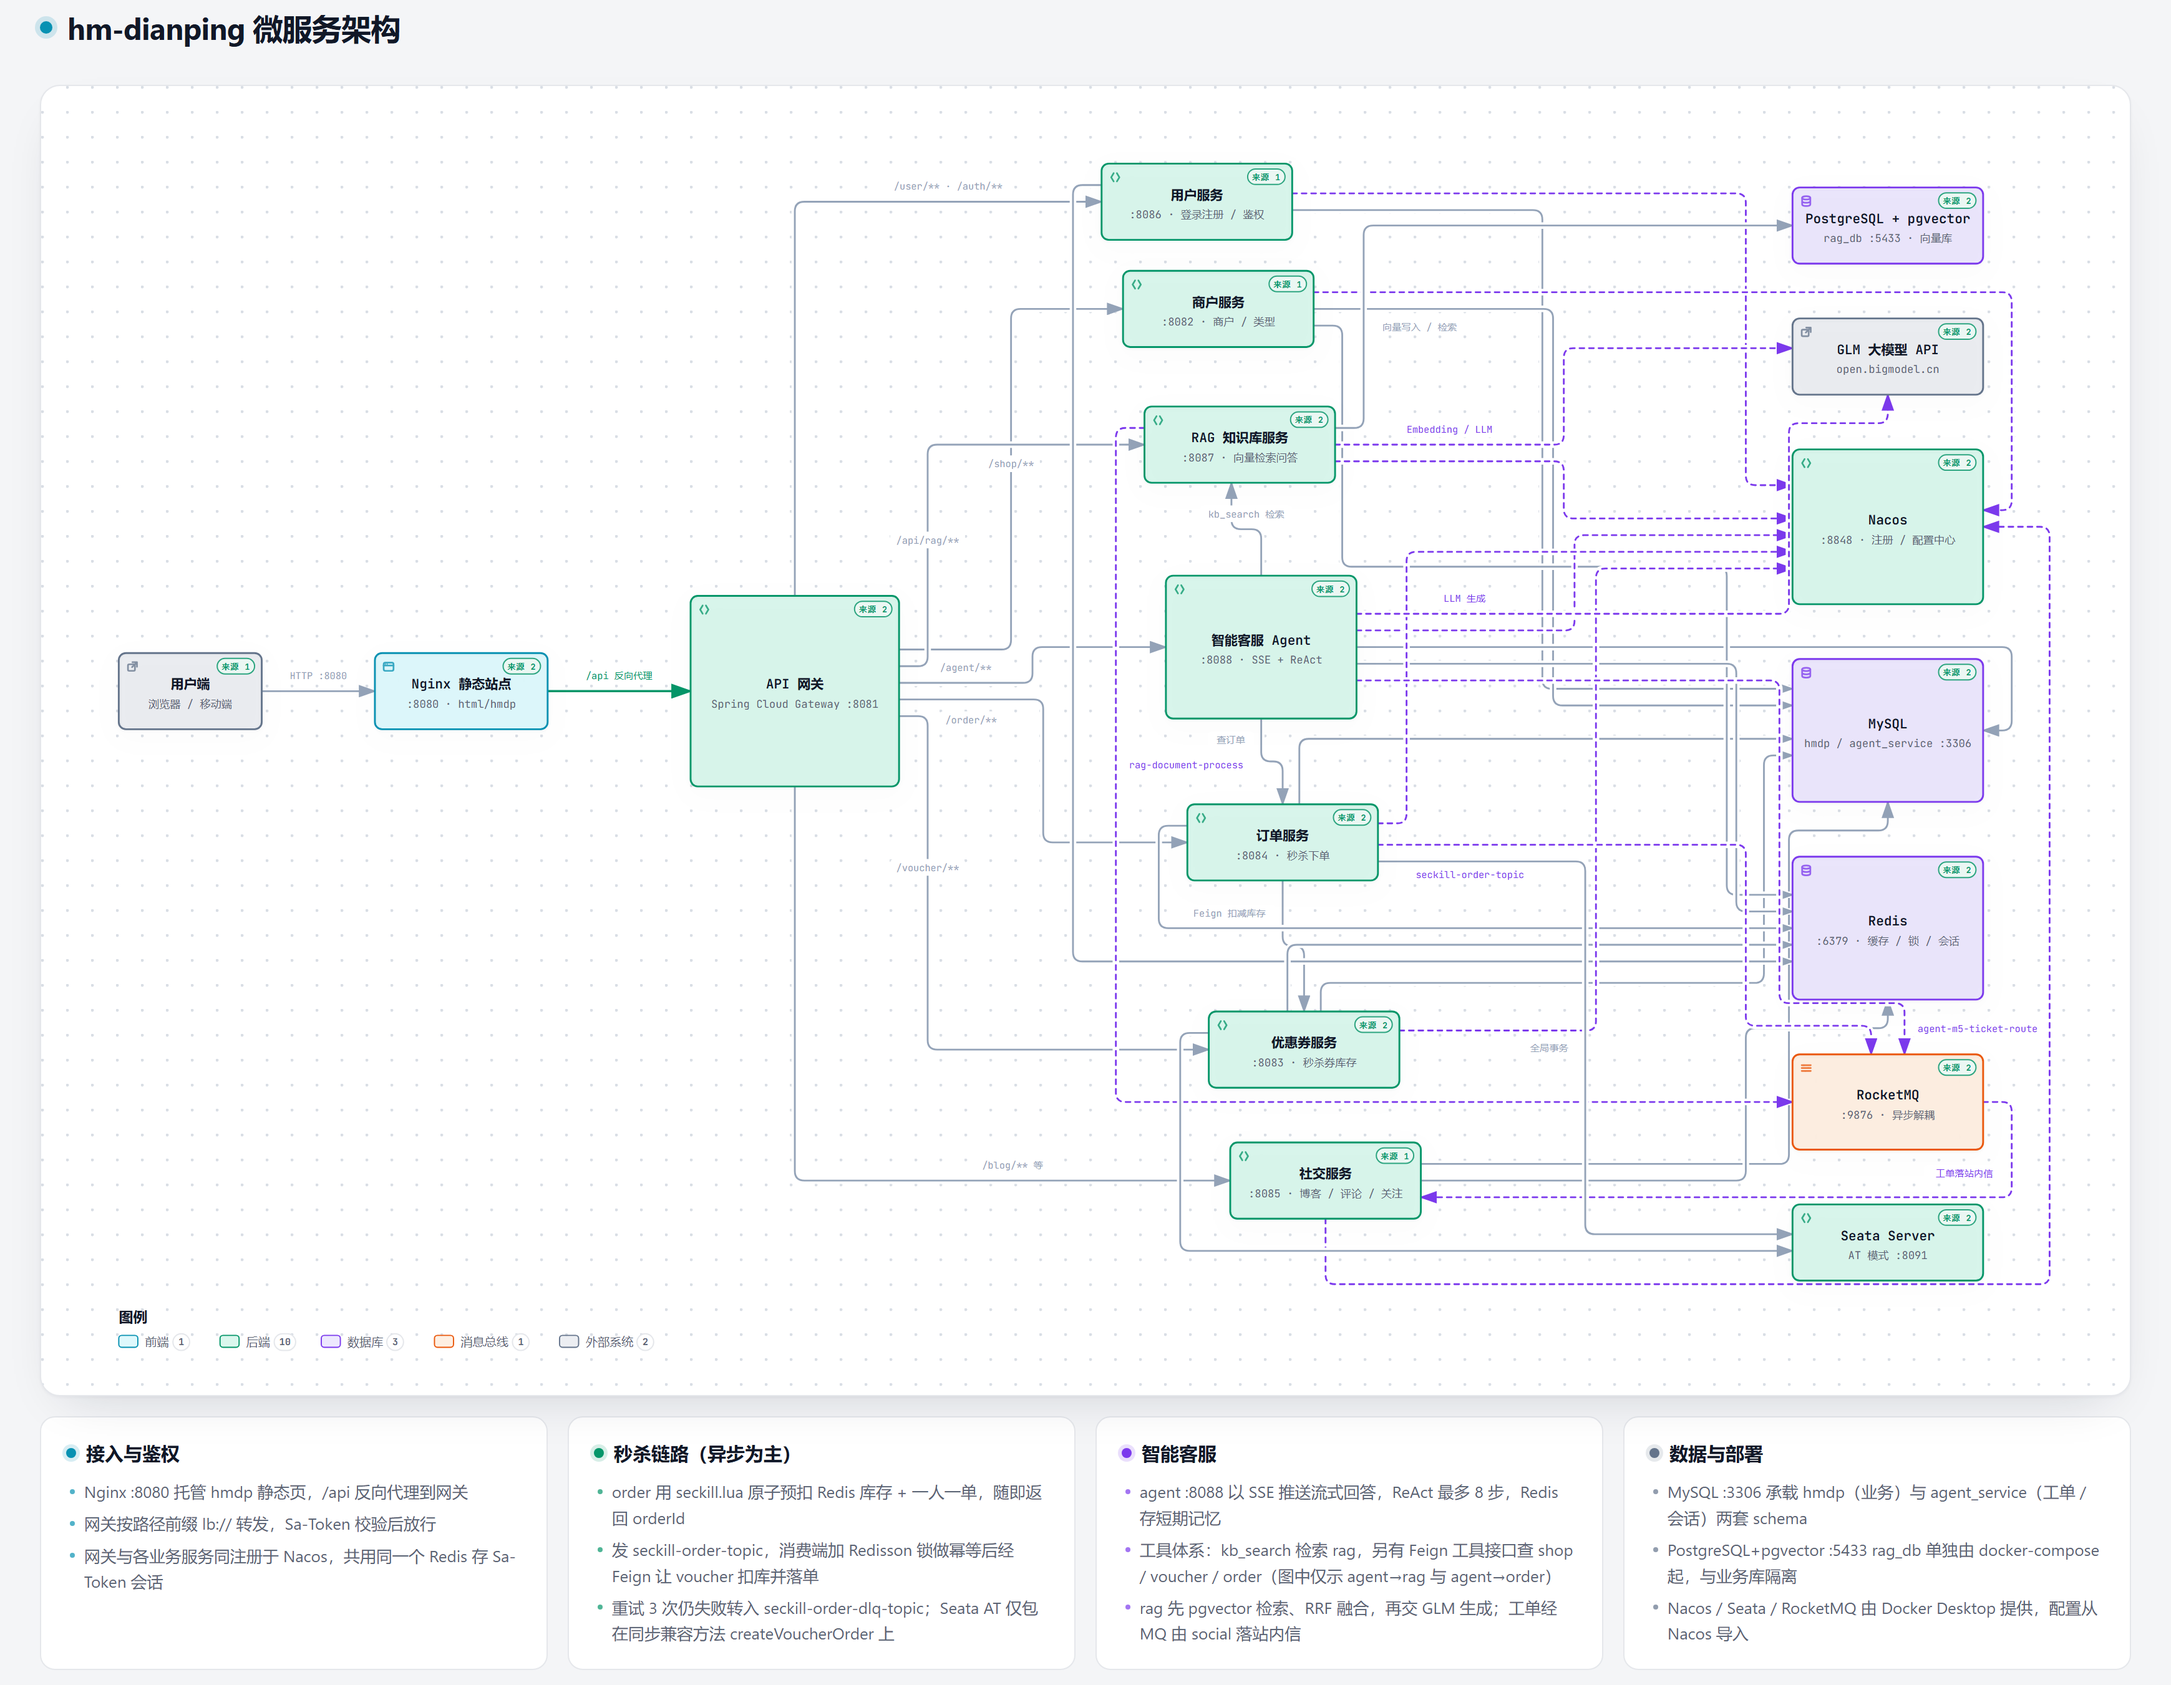
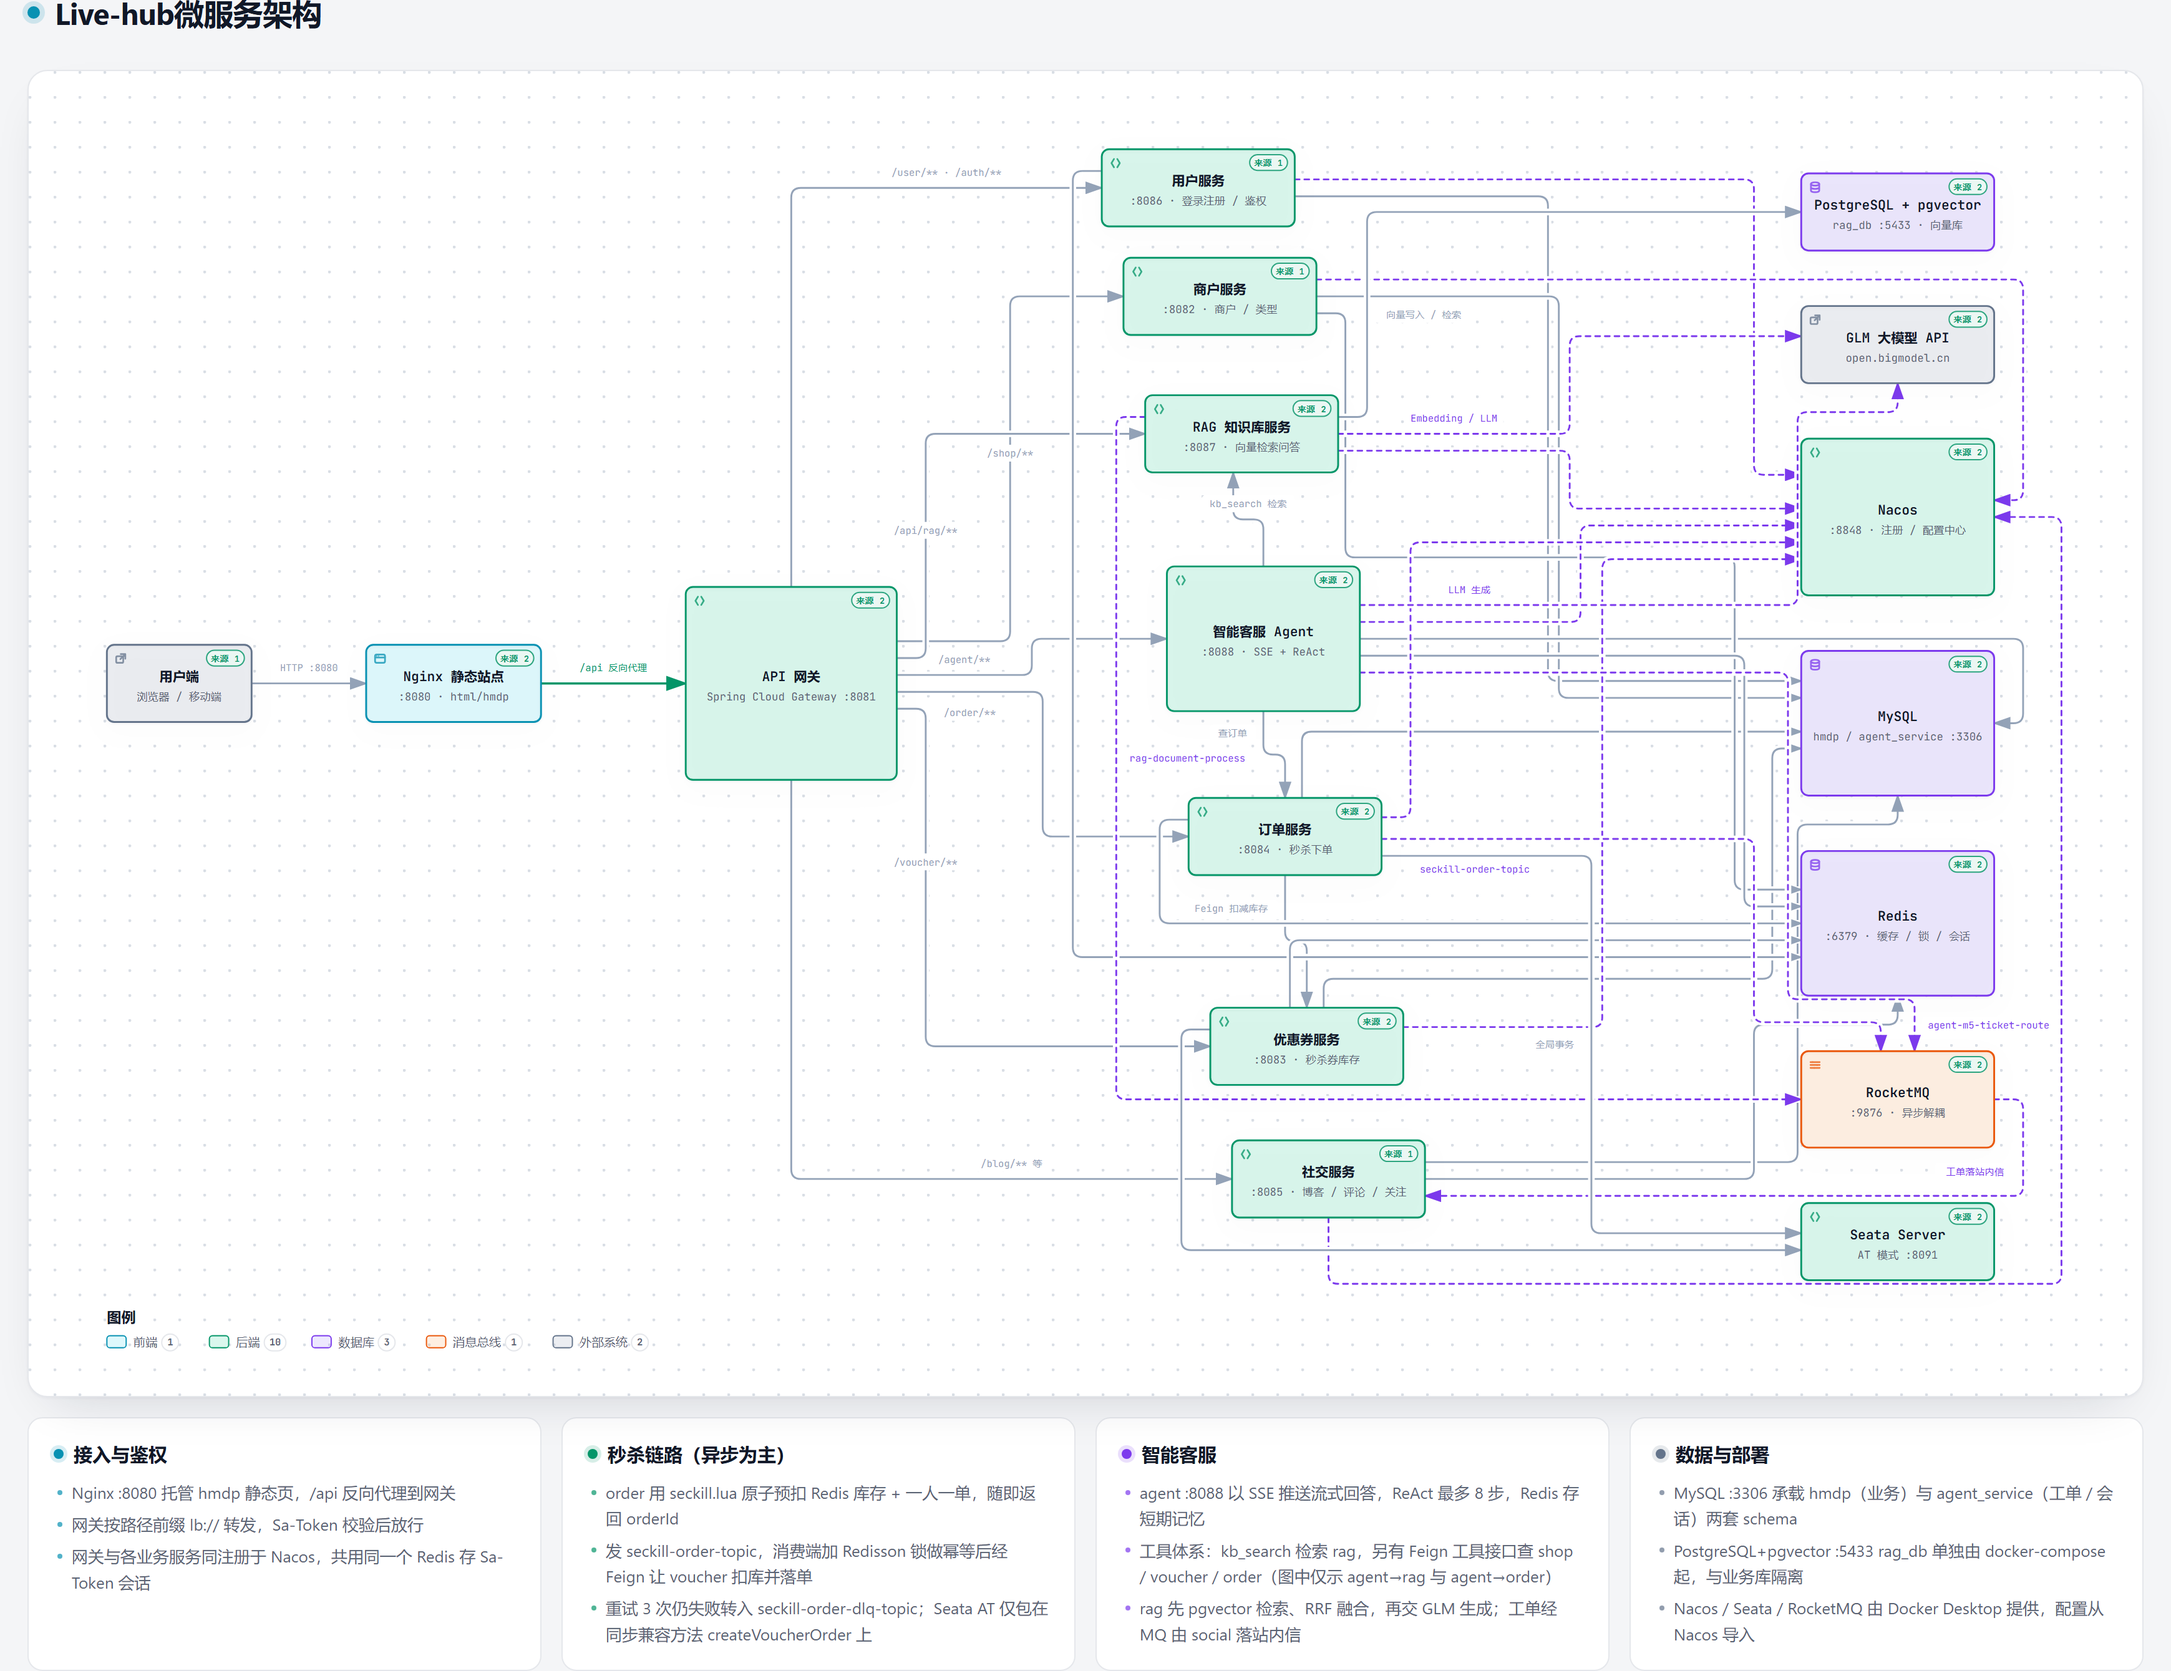
docs(readme): 1.3 系统架构图替换为 Live-hub 版 archify 出图(浅色主题) + alt 文案对齐

diff --git a/README.md b/README.md
@@ -17,7 +17,7 @@ Live-hub是一个基于微服务架构的仿大众点评系统，提供用户注
 - **监控告警**：集成Micrometer、Prometheus实现应用监控
 
 ### 1.3 系统架构
-![hm-dianping 微服务架构](docs/images/architecture.png)
+![Live-hub 微服务架构](docs/images/architecture.png)
 
 ## 2. 技术栈
 
